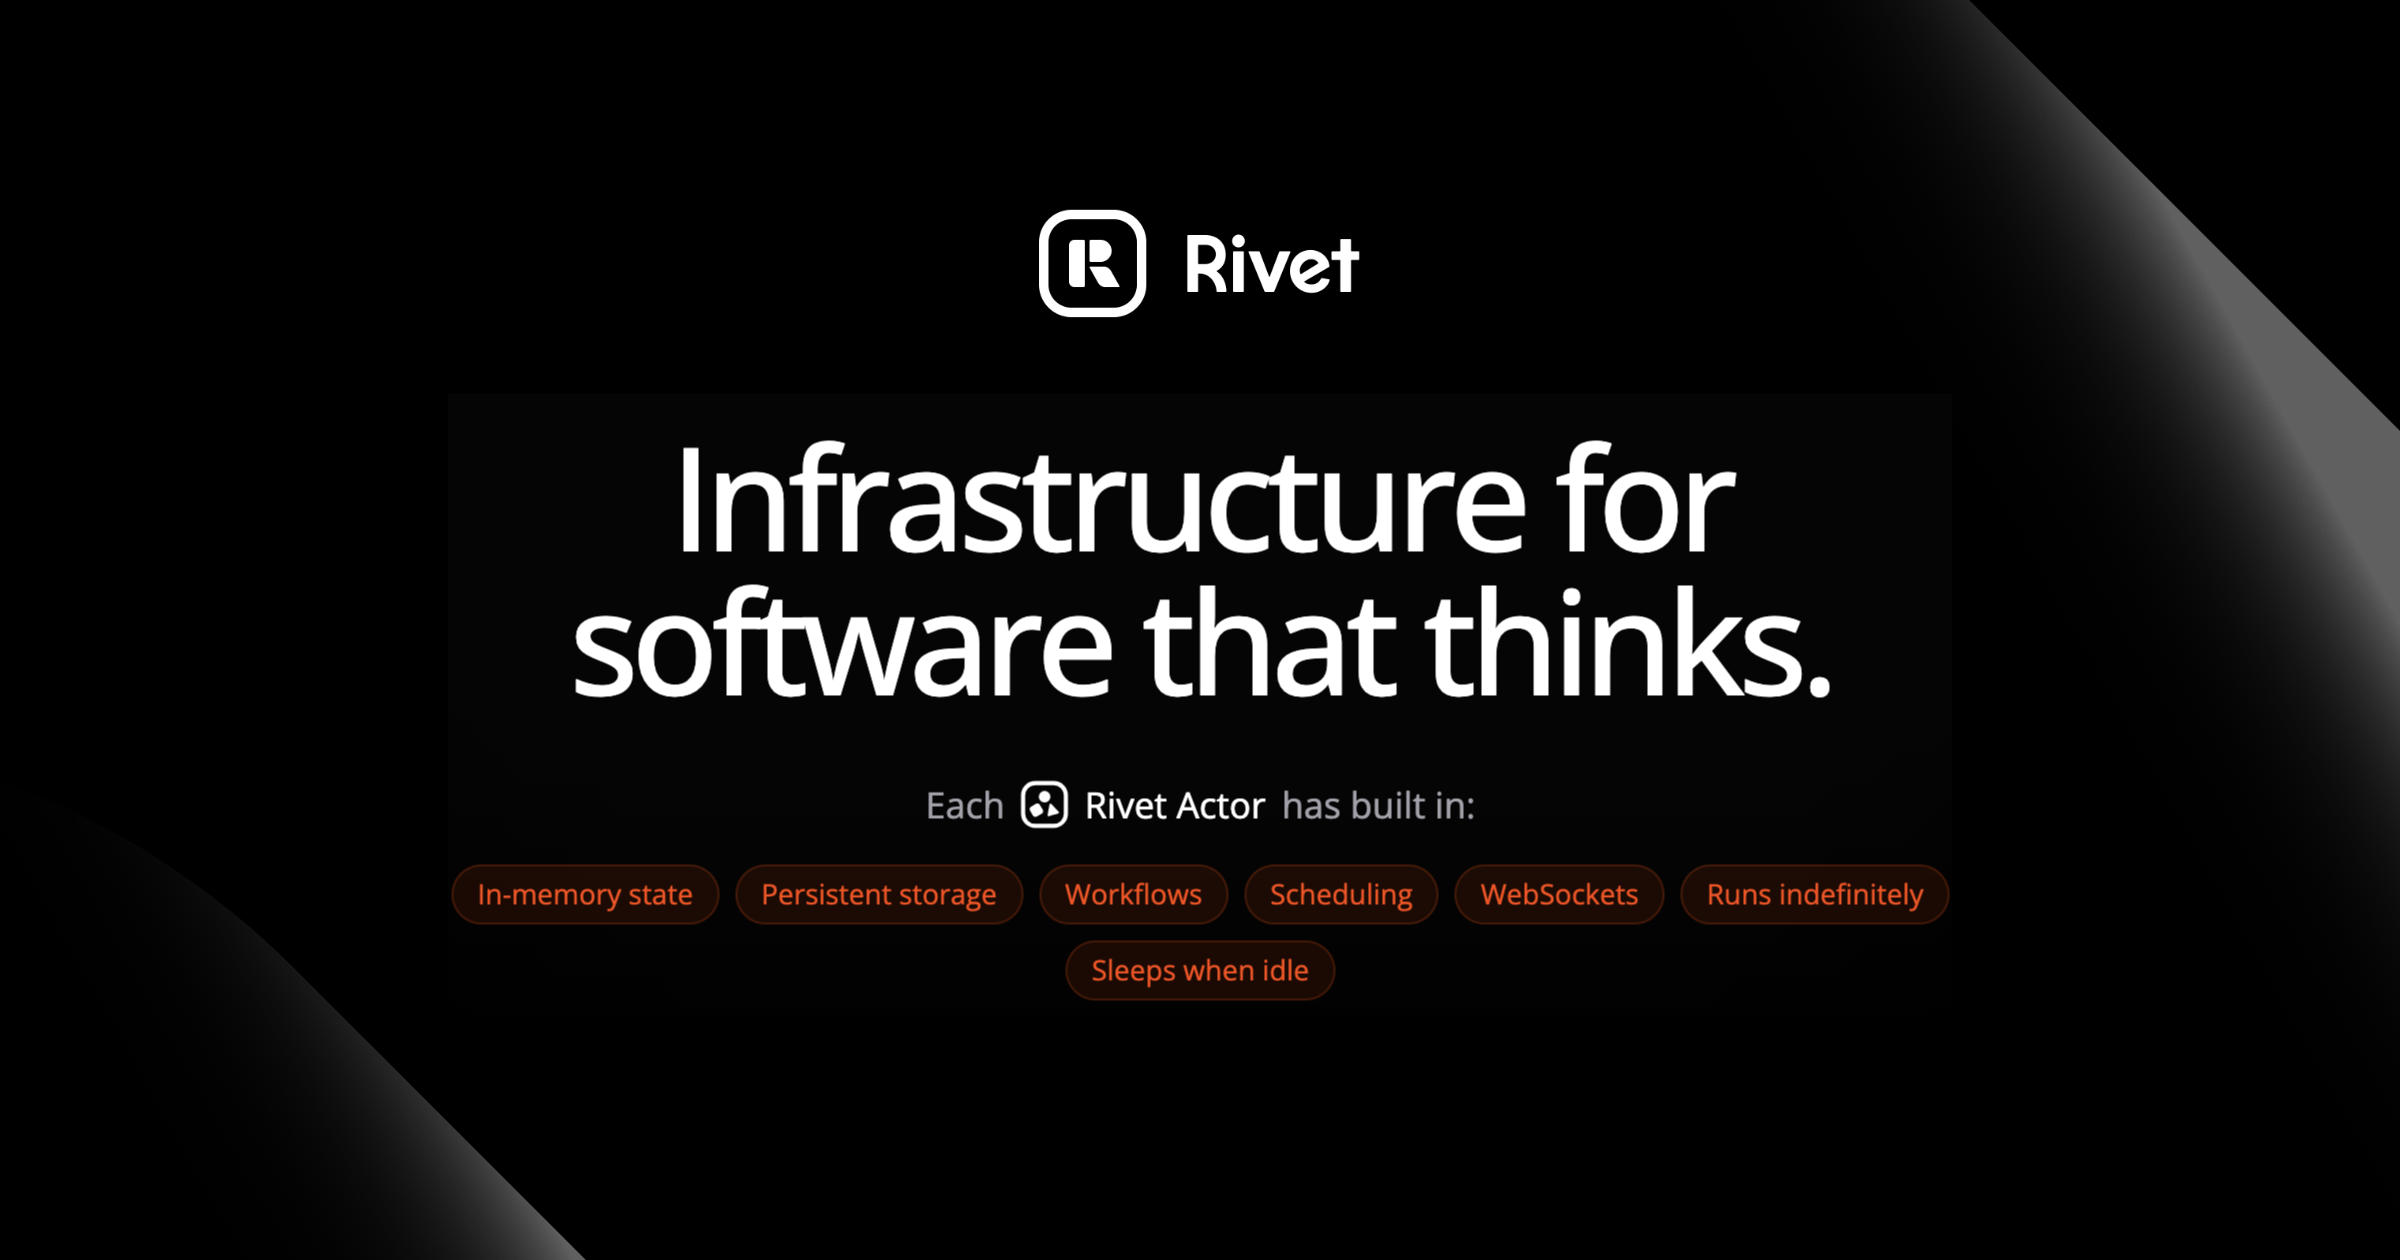
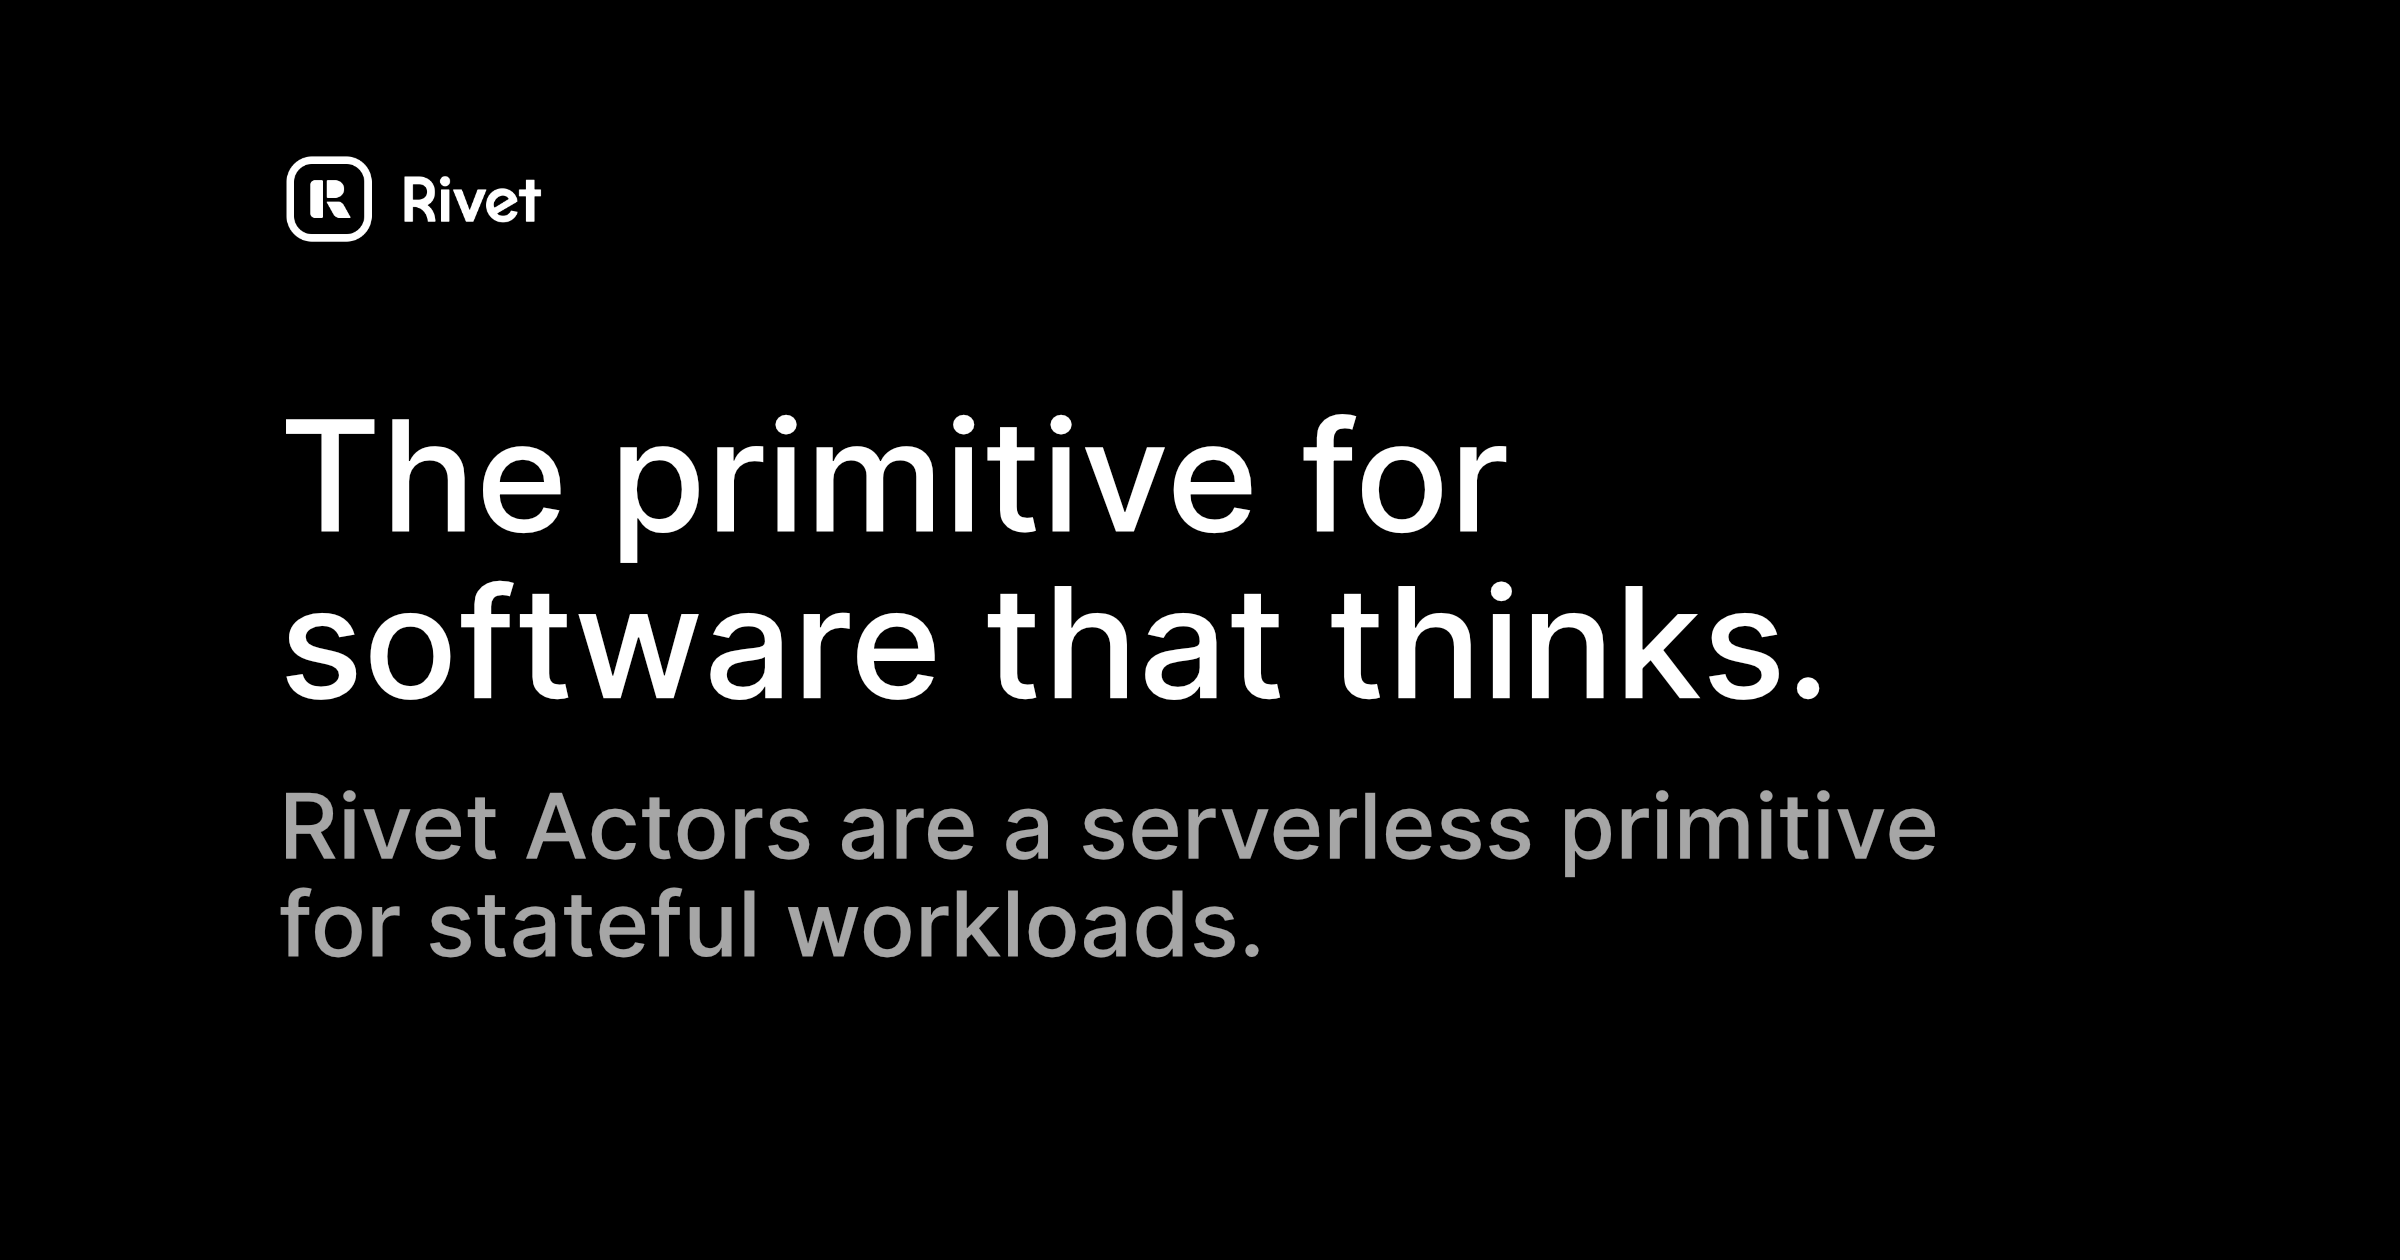
chore: update og image and description to match new marketing

diff --git a/frontend/index.html b/frontend/index.html
@@ -6,7 +6,7 @@
 		<meta charset="UTF-8" />
 		<meta name="viewport" content="width=device-width, initial-scale=1.0" />
 
-		<meta property="description" content="A unified platform to manage your game servers & backend." />
+		<meta property="description" content="The primitive for software that thinks." />
 
 		<meta property="og:url" content="https://www.rivet.dev/" />
 		<meta property="og:image" content="https://www.rivet.dev/promo/og.png" />
@@ -19,7 +19,7 @@
 		<meta name="twitter:title" content="Rivet" />
 		<meta
 			name="twitter:description"
-			content="A unified platform to manage your game servers & backend."
+			content="The primitive for software that thinks."
 		/>
 		<meta name="twitter:image" content="https://www.rivet.dev/promo/og.png" />
 		<meta name="twitter:image:alt" content="Rivet promotional banner" />
